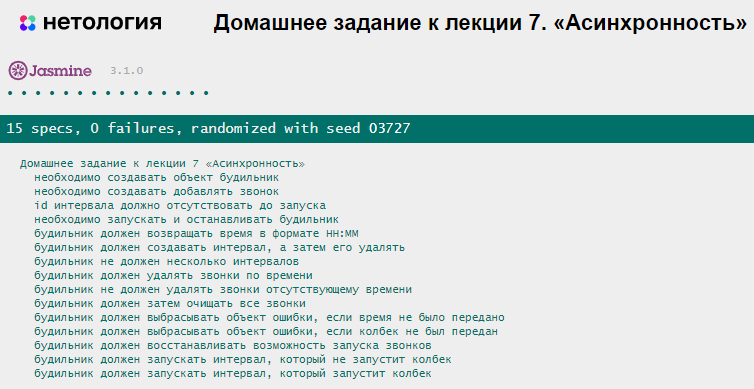
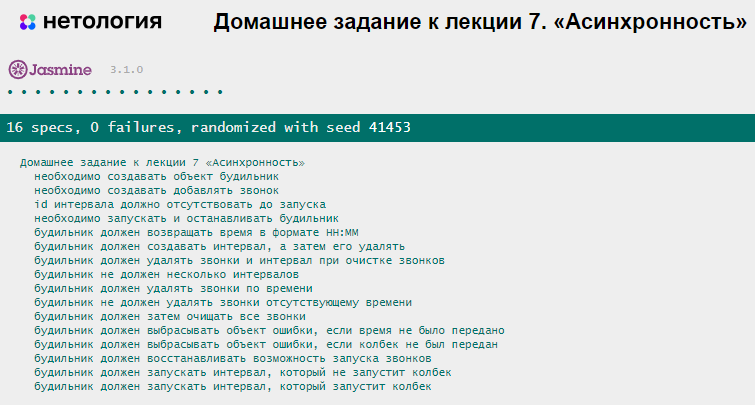
Небольшие изменения в тестах и описании первого задания.

diff --git a/7.async/tests.js b/7.async/tests.js
@@ -44,6 +44,17 @@ describe('Домашнее задание к лекции 7 «Асинхронн
     expect(clock.intervalId).toBeNull();
   });
 
+  it('будильник должен удалять звонки и интервал при очистке звонков', () => {
+    const callback = f => f;
+    clock.addClock("16:45", callback);
+    expect(clock.alarmCollection.length).toEqual(1);
+    clock.start();
+    expect(clock.intervalId).toBeDefined();
+    clock.clearAlarms();
+    expect(clock.intervalId).toBeNull();
+    expect(clock.alarmCollection.length).toEqual(0);
+  });
+
   it('будильник не должен несколько интервалов', () => {
     clock.start();
     const intervalId = clock.intervalId;

diff --git a/4.objects/tests.js b/4.objects/tests.js
@@ -22,11 +22,14 @@ describe("Домашнее задание к занятию 4 «Объекты»
     
     expect(student.marks).toEqual([]);
 
-    student.addMarks(5, 4, 5);
-    expect(student.marks).toEqual([5, 4, 5]);
+    student.addMarks(5);
+    expect(student.marks).toEqual([5]);
 
-    student.addMarks(5, 4, 5);
-    expect(student.marks).toEqual([5, 4, 5, 5, 4, 5]);
+    student.addMarks(4, 4);
+    expect(student.marks).toEqual([5, 4, 4]);
+
+    student.addMarks(3, 3, 4, 5);
+    expect(student.marks).toEqual([5, 4, 4, 3, 3, 4, 5]);
   });
 
   it("Вычисление среднего работает корректно", () => {

diff --git a/1.base-concepts/README.md b/1.base-concepts/README.md
@@ -20,8 +20,6 @@
 
 Напишите функцию, которая будет принимать процентную ставку, сумму первоначального взноса, сумму кредита и срок (длительность кредита в месяцах) в качестве аргументов и выдавать сумму, которую в итоге заплатит клиент (первоначальный взнос, погашение основного долга, проценты за пользование кредитом). 
 
-Вы должны работать с числами: если параметр функции будет строкой, то попытайтесь преобразовать в число. Во всех остальных случаях возвращайте `false`.
-
 ### Что нужно сделать
 1. Реализуйте функцию `calculateTotalMortgage`, которая принимает четыре аргумента: `percent`, `contribution`, `amount` и `countMonths`.
 2. Преобразуйте процентную ставку из диапазона от 0 до 100 в диапазон от 0 до 1 и из годовой ставки — в месячную.
